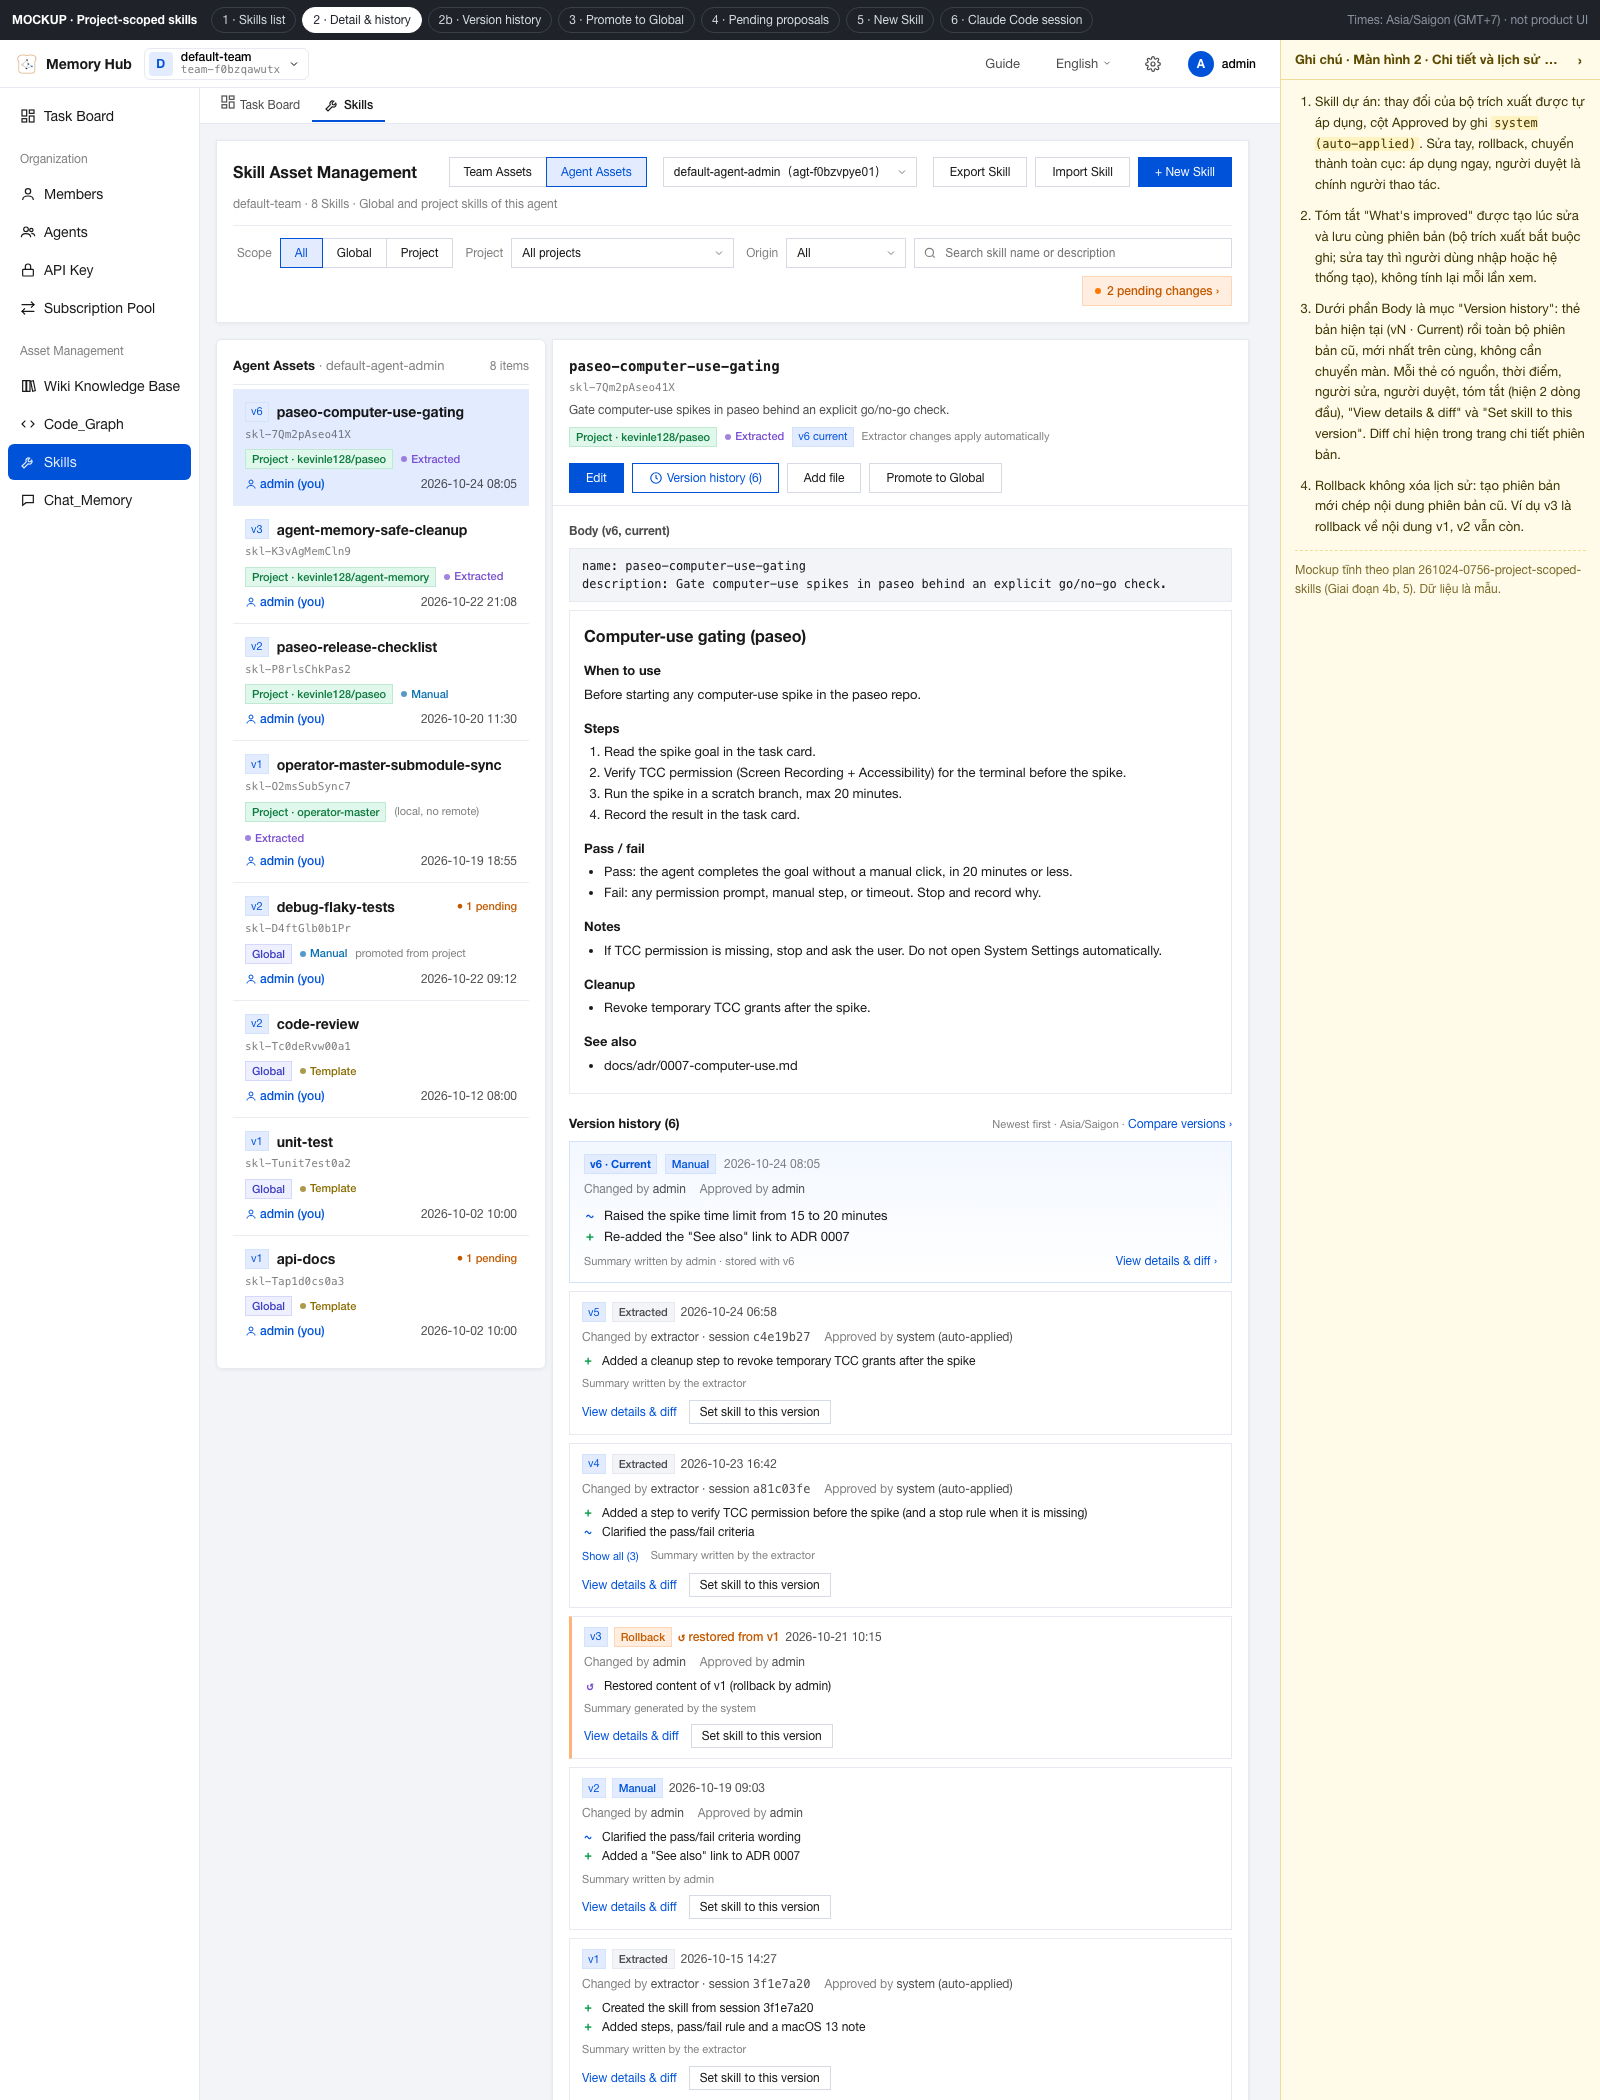
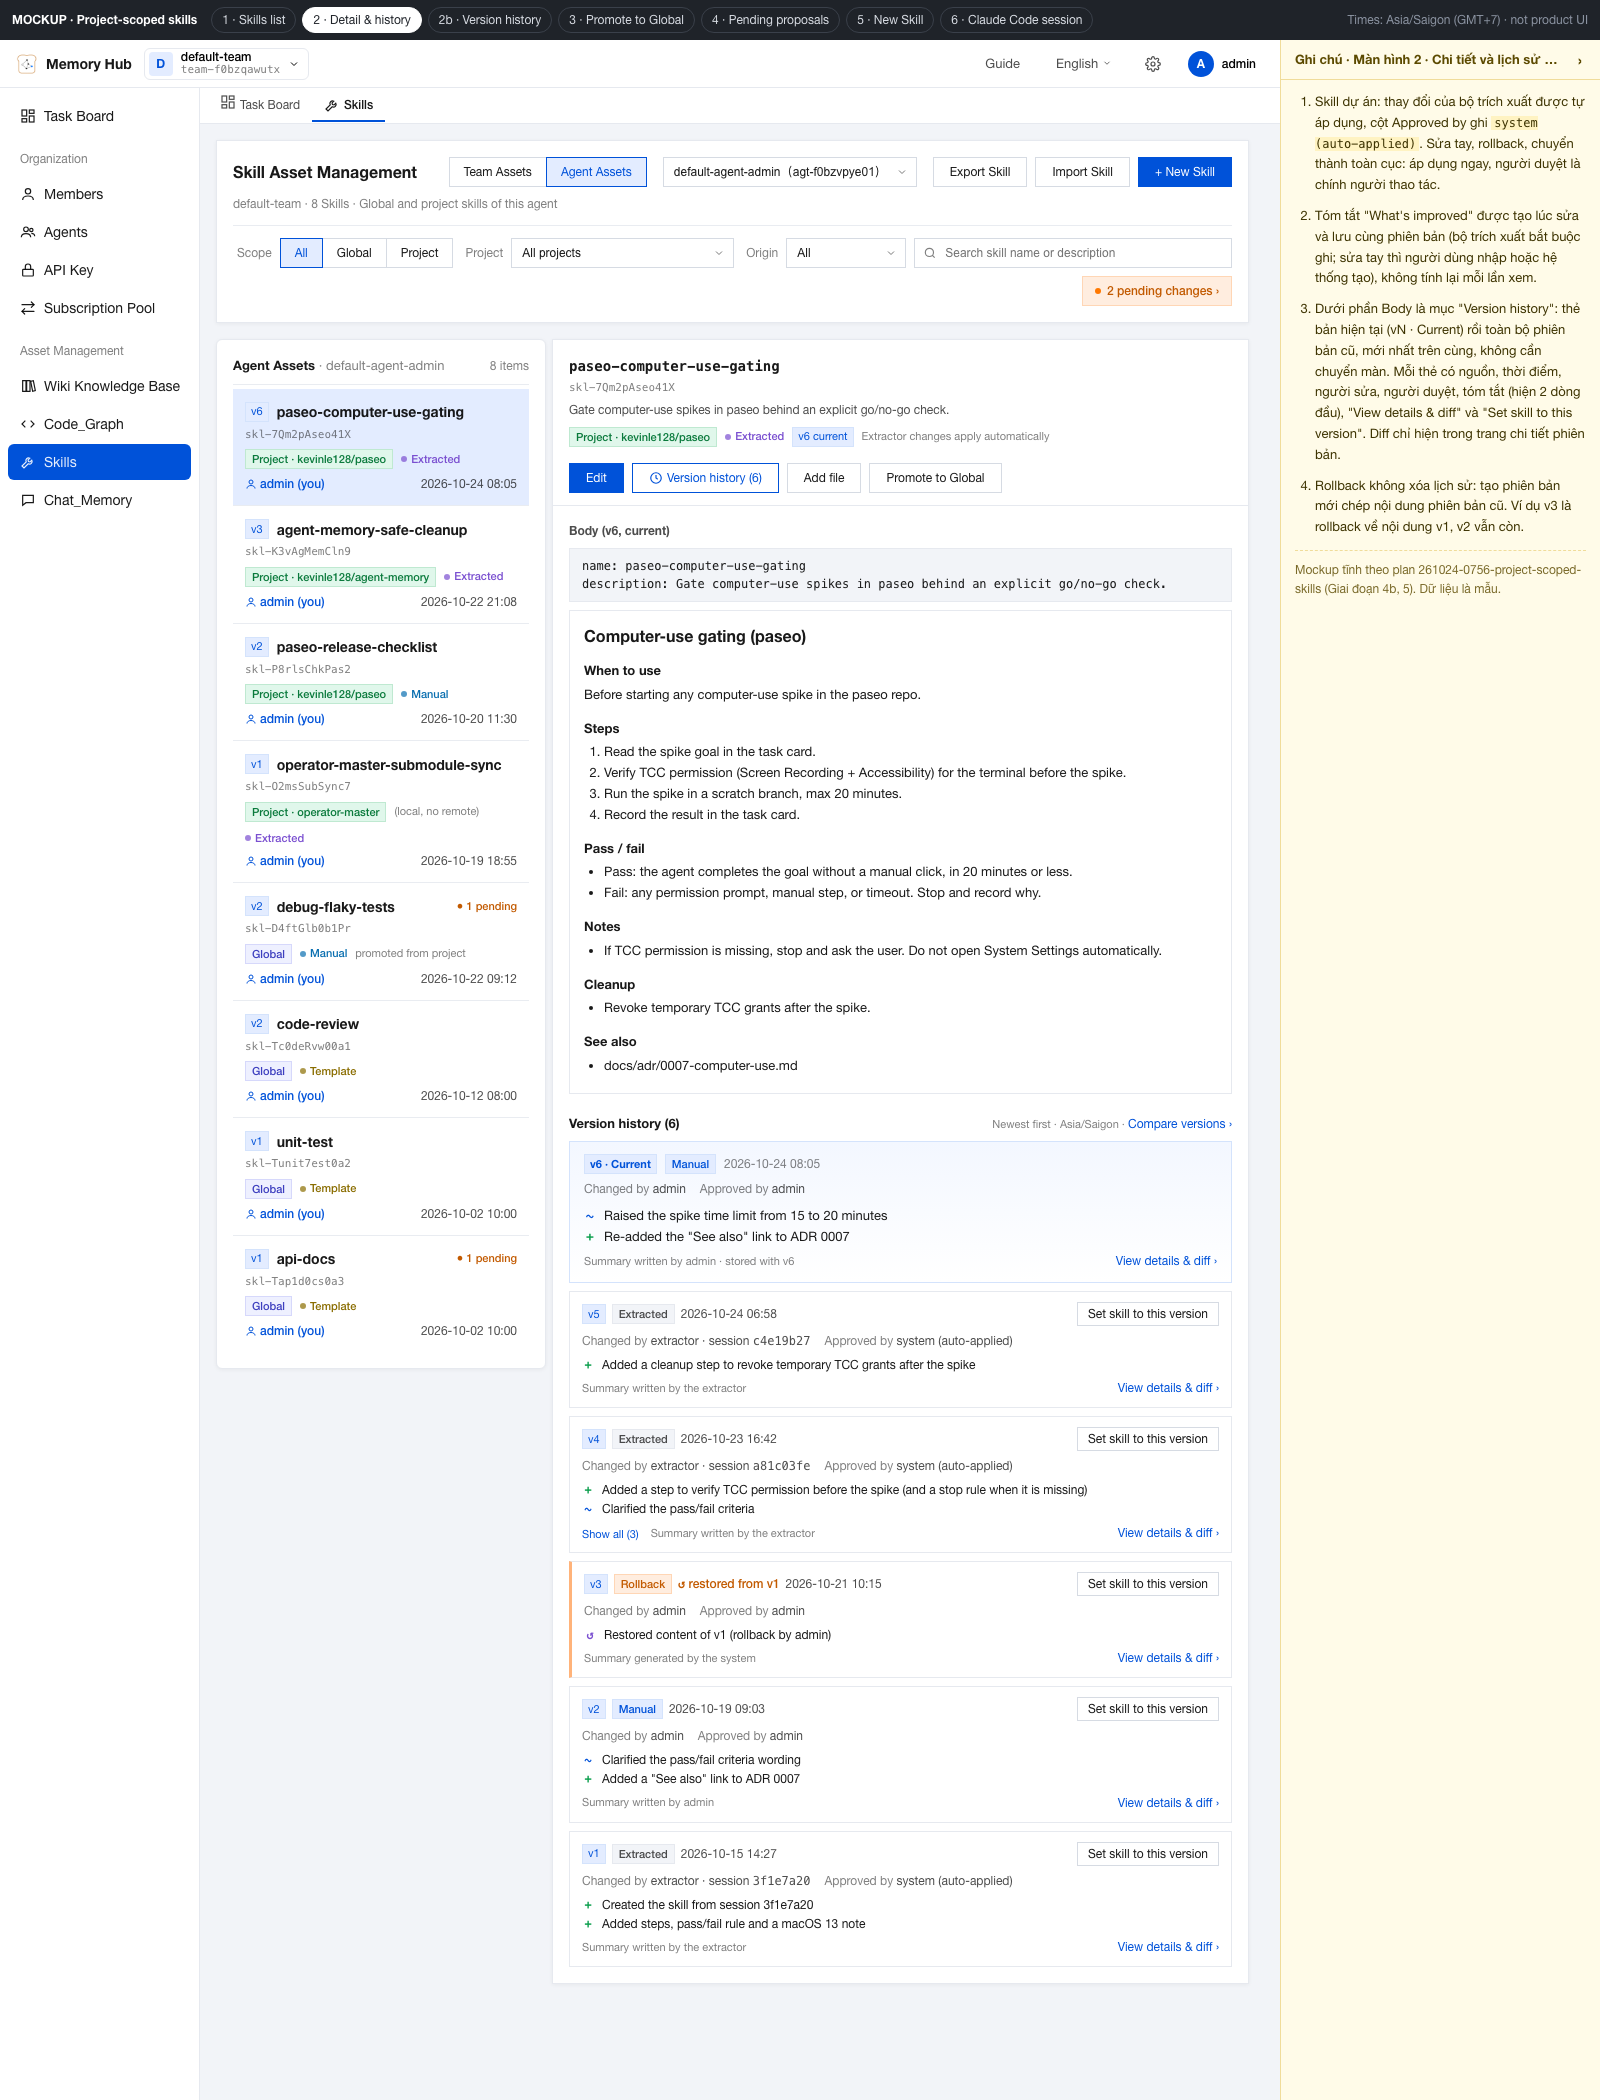
docs: align version card actions in skills mockup

Changed region(s): [[0.3438, 0.619, 0.75, 1.0], [0.6875, 0.8357, 0.75, 0.8976], [0.6875, 0.7429, 0.75, 0.8048]]

diff --git a/plans/261024-0756-project-scoped-skills/mockup/skills-mockup.html b/plans/261024-0756-project-scoped-skills/mockup/skills-mockup.html
@@ -731,10 +731,9 @@ function detailCard(s, compact){
     const metaLine='<div class="tl-meta"><span><b>Changed by</b> '+(v.by==='extractor'?'extractor · session <span class="mono">'+v.session+'</span>':esc(v.by))+'</span><span><b>Approved by</b> '+(v.approver==='system'?'system (auto-applied)':esc(v.approver))+'</span></div>';
     if (isCur) return '<div class="whatsnew"><div class="whatsnew-h"><span class="ver-tag">v'+v.v+' · Current</span>'+sourceTag(v.source)+(v.source==='rollback'?'<span class="tl-restored" style="margin:0">↺ restored from v'+v.from+'</span>':'')+'<span class="muted">'+v.date+'</span></div>'+
       metaLine+sumList(v.summary)+'<div class="sum-foot"><span class="sum-by" style="margin:0">'+sumByText(v)+' · stored with v'+v.v+'</span><button class="link" style="margin-left:auto" data-act="vd:'+v.v+'">View details &amp; diff &rsaquo;</button></div></div>';
-    return '<div class="vcard'+(v.source==='rollback'?' rb':'')+'"><div class="tl-h"><span class="ver-tag">v'+v.v+'</span>'+sourceTag(v.source)+(v.source==='rollback'?'<span class="tl-restored" style="margin:0">↺ restored from v'+v.from+'</span>':'')+'<span class="tl-date">'+v.date+'</span></div>'+
+    return '<div class="vcard'+(v.source==='rollback'?' rb':'')+'"><div class="tl-h"><span class="ver-tag">v'+v.v+'</span>'+sourceTag(v.source)+(v.source==='rollback'?'<span class="tl-restored" style="margin:0">↺ restored from v'+v.from+'</span>':'')+'<span class="tl-date">'+v.date+'</span><button class="btn sm" style="margin-left:auto" data-act="rollback:'+v.v+'">Set skill to this version</button></div>'+
       metaLine+'<div class="td-sum" id="sum-'+v.v+'">'+sumList(v.summary,true)+'</div>'+
-      '<div class="sum-foot">'+(v.summary.length>2?'<button class="expand" data-act="expand:'+v.v+'">Show all ('+v.summary.length+')</button>':'')+'<span class="sum-by" style="margin:0">'+sumByText(v)+'</span></div>'+
-      '<div class="tl-acts"><button class="link" data-act="vd:'+v.v+'">View details &amp; diff</button><button class="btn sm" data-act="rollback:'+v.v+'">Set skill to this version</button></div></div>';
+      '<div class="sum-foot">'+(v.summary.length>2?'<button class="expand" data-act="expand:'+v.v+'">Show all ('+v.summary.length+')</button>':'')+'<span class="sum-by" style="margin:0">'+sumByText(v)+'</span><button class="link" style="margin-left:auto" data-act="vd:'+v.v+'">View details &amp; diff &rsaquo;</button></div></div>';
   };
   const stack='<div class="sec"><div class="sec-head"><span class="sec-title" style="font-size:13px;color:var(--tea-color-text-primary)">Version history ('+vs.length+')</span><span class="muted" style="font-size:11px">Newest first · Asia/Saigon · <button class="link" data-go="history">Compare versions &rsaquo;</button></span></div><div class="vstack">'+vs.map(card).join('')+'</div></div>';
   return '<div class="card sd">'+head+'<div class="sd-scroll">'+body+stack+'</div></div>';
@@ -808,13 +807,12 @@ function scrHistory(){
     const isCur=v.v===cur, picked=v.v===from||v.v===to;
     return '<li class="tl-item'+(isCur?' cur':'')+(v.source==='rollback'?' rb':'')+(picked?' picked':'')+'"><span class="tl-dot"></span><div class="tl-card">'+
       '<div class="tl-h"><span class="ver-tag">v'+v.v+'</span>'+(isCur?'<span class="tag tag-cur">Current</span>':'')+sourceTag(v.source)+'<span class="tl-date">'+v.date+'</span>'+
-        '<label class="tl-pick"><input type="checkbox" data-act="hpick:'+v.v+'" '+(picked?'checked':'')+'> Compare</label></div>'+
+        (isCur?'':'<button class="btn sm" style="margin-left:auto" data-act="rollback:'+v.v+'">Set skill to this version</button>')+
+        '</div>'+
       (v.source==='rollback'?'<div class="tl-restored">↺ Restored from v'+v.from+'</div>':'')+
       '<div class="tl-meta"><span><b>Changed by</b> '+(v.by==='extractor'?'extractor · session <span class="mono">'+v.session+'</span>':esc(v.by))+'</span><span><b>Approved by</b> '+(v.approver==='system'?'system (auto-applied)':esc(v.approver))+'</span></div>'+
       '<div class="tl-reason"><span class="muted">Reason:</span> '+esc(v.reason)+'</div>'+
-      sumList(v.summary)+'<div class="sum-by">'+sumByText(v)+'</div>'+
-      '<div class="tl-acts"><button class="link" data-act="vd:'+v.v+'">View details</button>'+
-        (isCur?'<span class="muted" style="font-size:12px">This is the current version</span>':'<button class="btn sm" data-act="rollback:'+v.v+'">Set skill to this version</button>')+'</div>'+
+      sumList(v.summary)+'<div class="sum-foot"><label class="tl-pick" style="margin-left:0"><input type="checkbox" data-act="hpick:'+v.v+'" '+(picked?'checked':'')+'> Compare</label><span class="sum-by" style="margin:0 0 0 10px">'+sumByText(v)+'</span><button class="link" style="margin-left:auto" data-act="vd:'+v.v+'">View details &amp; diff &rsaquo;</button></div>'+
     '</div></li>';}).join('');
   return '<nav class="crumbs"><a data-go="list">Skills</a>/<a data-go="detail">'+esc(s.name)+'</a>/<span>Version history</span></nav>'+
   '<section class="card card-pad"><div class="vd-head"><div><div class="vd-title"><span class="mono">'+esc(s.name)+'</span><span class="ver-tag">v'+cur+' current</span>'+scopeBadge(s)+originChip(s.origin)+'</div>'+
